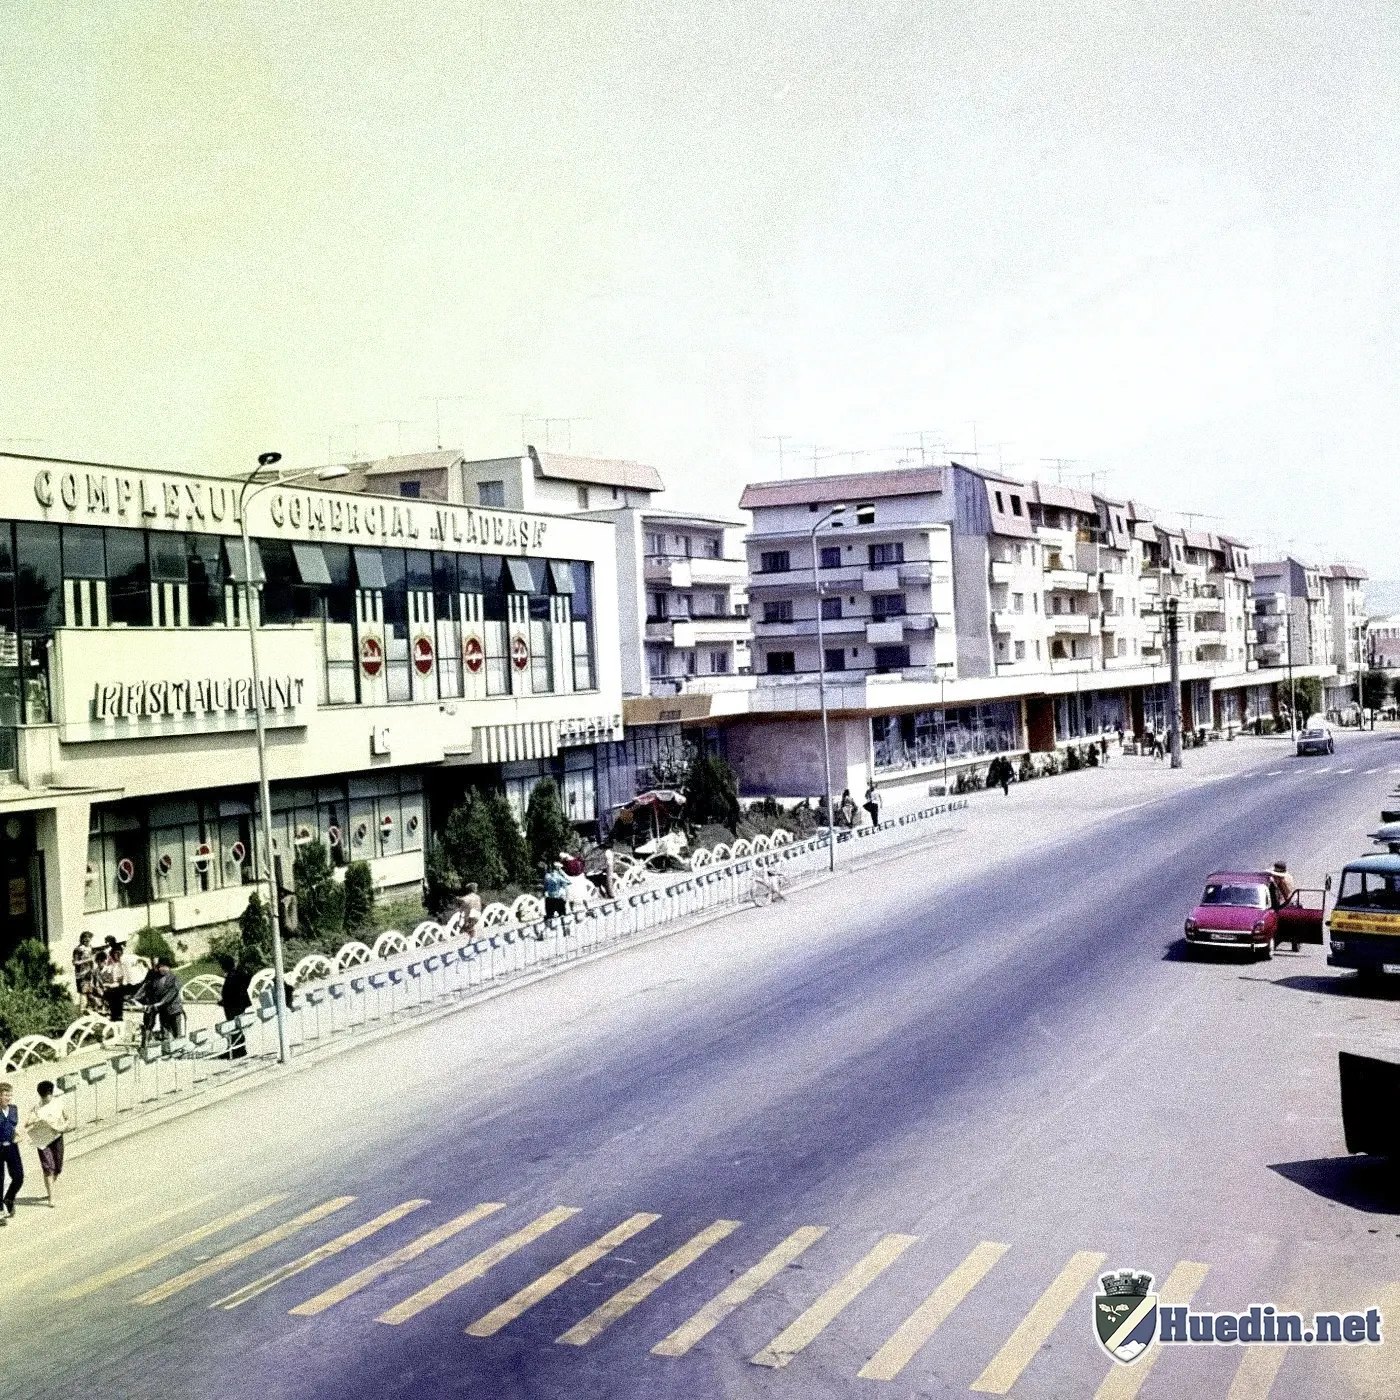
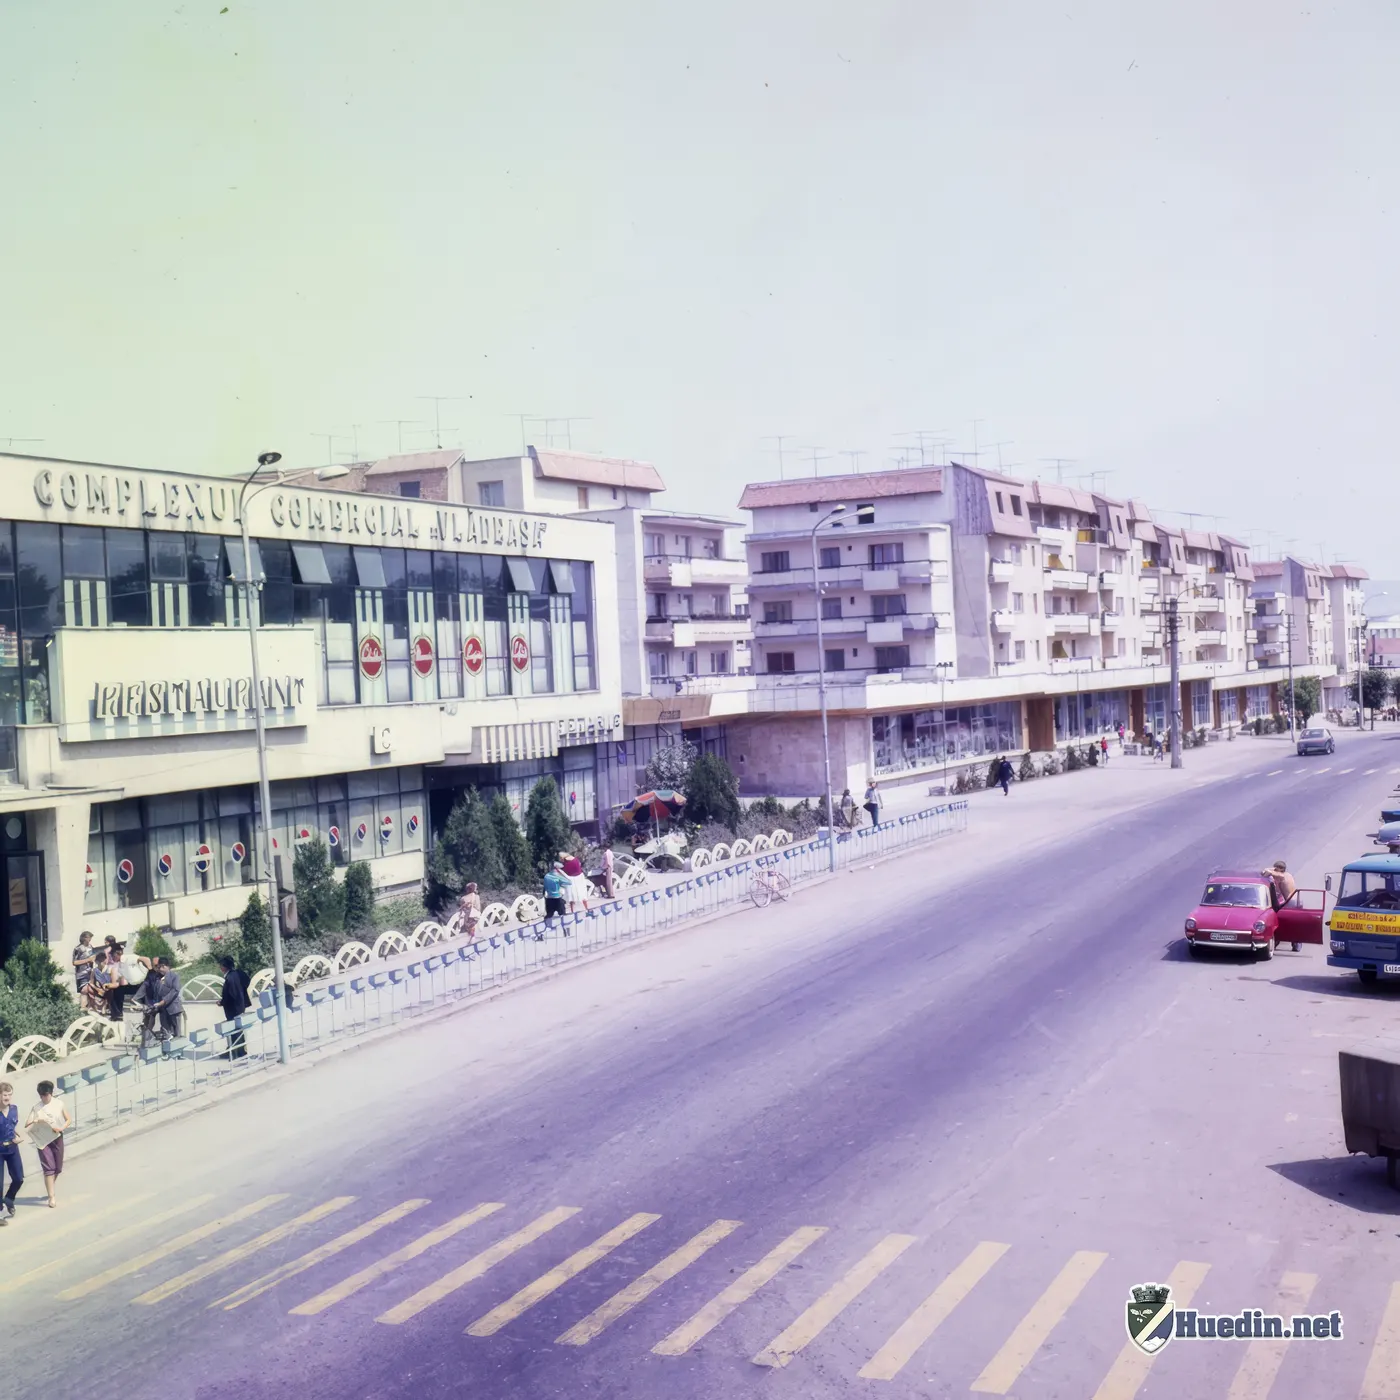
update

diff --git a/foto/huedin-1984-centrul-comercial-vladeasa.html b/foto/huedin-1984-centrul-comercial-vladeasa.html
@@ -3,15 +3,15 @@
 <head>
 <meta charset="utf-8">
 <meta name="viewport" content="width=device-width, initial-scale=1">
-<title>Huedin - 1984 (1984) · Huedin.net</title>
-<meta name="description" content="Huedin - 1984 (Zona centrală- Complexul Comercial Vlădeasa) · Huedin">
-<link rel="canonical" href="https://huedin.net/foto/huedin-1984-3.html">
+<title>Huedin - 1984 ( Centrul Comercial Vlădeasa ) (1984) · Huedin.net</title>
+<meta name="description" content="Huedin - 1984 ( Centrul Comercial Vlădeasa ) · Huedin">
+<link rel="canonical" href="https://huedin.net/foto/huedin-1984-centrul-comercial-vladeasa.html">
 <meta name="theme-color" content="#0a0a0c">
 <meta property="og:type" content="article">
 <meta property="og:site_name" content="Huedin.net">
-<meta property="og:title" content="Huedin - 1984 (1984) · Huedin.net">
-<meta property="og:description" content="Huedin - 1984 (Zona centrală- Complexul Comercial Vlădeasa) · Huedin">
-<meta property="og:url" content="https://huedin.net/foto/huedin-1984-3.html">
+<meta property="og:title" content="Huedin - 1984 ( Centrul Comercial Vlădeasa ) (1984) · Huedin.net">
+<meta property="og:description" content="Huedin - 1984 ( Centrul Comercial Vlădeasa ) · Huedin">
+<meta property="og:url" content="https://huedin.net/foto/huedin-1984-centrul-comercial-vladeasa.html">
 <meta property="og:image" content="https://huedin.net/assets/img/previews/p271.webp">
 <meta property="og:locale" content="ro_RO">
 <meta name="twitter:card" content="summary_large_image">
@@ -44,35 +44,35 @@
   <nav class="crumbs" aria-label="Fir de navigare">
     <a href="../index.html">Acasă</a><span aria-hidden="true">/</span>
     <a href="../arhiva.html">Arhivă foto</a><span aria-hidden="true">/</span>
-    <span aria-current="page">Huedin - 1984</span>
+    <span aria-current="page">Huedin - 1984 ( Centrul Comercial Vlădeasa )</span>
   </nav>
 </div>
 <section class="photo">
   <div class="wrap">
     <div class="photo__layout">
       <div>
-  <figure class="photo__figure" data-photo-figure data-full="../assets/img/portfolio/huedin-1984-1984.webp" data-title="Huedin - 1984" data-caption="1984 · Huedin" tabindex="0" role="button" aria-label="Mărește fotografia">
-    <img src="../assets/img/previews/p271.webp" width="1400" height="1400" alt="Huedin - 1984 (Zona centrală- Complexul Comercial Vlădeasa)" decoding="async">
-    <figcaption>Huedin - 1984 · Huedin — apăsați pentru vizualizare mărită.</figcaption>
+  <figure class="photo__figure" data-photo-figure data-full="../assets/img/portfolio/huedin-1984-centrul-comercial-vladeasa-1984.webp" data-title="Huedin - 1984 ( Centrul Comercial Vlădeasa )" data-caption="1984 · Huedin" tabindex="0" role="button" aria-label="Mărește fotografia">
+    <img src="../assets/img/previews/p271.webp" width="1400" height="1400" alt="Huedin - 1984 ( Centrul Comercial Vlădeasa )" decoding="async">
+    <figcaption>Huedin - 1984 ( Centrul Comercial Vlădeasa ) · Huedin — apăsați pentru vizualizare mărită.</figcaption>
   </figure>
   <div class="photo__actions">
-    <a class="btn btn--sm" href="../assets/img/portfolio/huedin-1984-1984.jpg" target="_blank" rel="noopener">Vezi originalul alb-negru</a>
-    <a class="btn btn--sm" href="../assets/img/portfolio/huedin-1984-1984.webp" target="_blank" rel="noopener">Rezoluție maximă</a>
-    <a class="btn btn--sm" href="../harta.html?foto=huedin-1984-3">Vezi pe hartă</a>
+    <a class="btn btn--sm" href="../assets/img/portfolio/huedin-1984-centrul-comercial-vladeasa-1984.jpg" target="_blank" rel="noopener">Vezi originalul alb-negru</a>
+    <a class="btn btn--sm" href="../assets/img/portfolio/huedin-1984-centrul-comercial-vladeasa-1984.webp" target="_blank" rel="noopener">Rezoluție maximă</a>
+    <a class="btn btn--sm" href="../harta.html?foto=huedin-1984-centrul-comercial-vladeasa">Vezi pe hartă</a>
   </div>
       </div>
       <div class="photo__side">
-    <h1>Huedin - 1984</h1>
+    <h1>Huedin - 1984 ( Centrul Comercial Vlădeasa )</h1>
     <ul class="photo__facts">
       <li><span class="k">An / perioadă</span><span class="v">1984</span></li>
       <li><span class="k">Perioadă</span><span class="v">1960–1990</span></li>
       <li><span class="k">Localitate</span><span class="v">Huedin</span></li>
-      <li><span class="k">Coordonate</span><span class="v">46.86460, 23.02652 (aproximative)</span></li>
+      <li><span class="k">Coordonate</span><span class="v">46.86472, 23.02593 (aproximative)</span></li>
       <li><span class="k">Cod arhivă</span><span class="v">p271</span></li>
     </ul>
     <p class="photo__note">Sursa coordonatelor: Poziționare manuală pe harta OpenStreetMap.</p>
     <p class="photo__note">Text original: „1984”.</p>
-    <p class="muted">Descriere: Huedin - 1984 (Zona centrală- Complexul Comercial Vlădeasa)</p>
+    <p class="muted">Descriere: Huedin - 1984 ( Centrul Comercial Vlădeasa )</p>
     <a class="btn btn--sm btn--ghost" href="../arhiva.html"><svg width="16" height="16" viewBox="0 0 24 24" fill="none" stroke="currentColor" stroke-width="1.7" stroke-linecap="round" stroke-linejoin="round" aria-hidden="true"><path d="M15 5l-7 7 7 7"/></svg> Înapoi la rezultate</a>
       </div>
     </div>

diff --git a/foto/huedin-1984-2.html b/foto/huedin-1984-2.html
@@ -97,10 +97,10 @@
 </article>
 <article class="card">
   <div class="card__media">
-    <img src="../assets/img/thumbs/p271.webp" width="600" height="600" alt="Huedin - 1984 (Zona centrală- Complexul Comercial Vlădeasa)" loading="lazy" decoding="async" data-lazy>
+    <img src="../assets/img/thumbs/p271.webp" width="600" height="600" alt="Huedin - 1984 ( Centrul Comercial Vlădeasa )" loading="lazy" decoding="async" data-lazy>
   </div>
   <div class="card__body">
-    <h3 class="card__title"><a href="../foto/huedin-1984-3.html">Huedin - 1984</a></h3>
+    <h3 class="card__title"><a href="../foto/huedin-1984-centrul-comercial-vladeasa.html">Huedin - 1984 ( Centrul Comercial Vlădeasa )</a></h3>
     <div class="card__meta">
       <span class="badge">1984</span>
       <span>Huedin</span>

diff --git a/foto/huedin-1984.html b/foto/huedin-1984.html
@@ -97,10 +97,10 @@
 </article>
 <article class="card">
   <div class="card__media">
-    <img src="../assets/img/thumbs/p271.webp" width="600" height="600" alt="Huedin - 1984 (Zona centrală- Complexul Comercial Vlădeasa)" loading="lazy" decoding="async" data-lazy>
+    <img src="../assets/img/thumbs/p271.webp" width="600" height="600" alt="Huedin - 1984 ( Centrul Comercial Vlădeasa )" loading="lazy" decoding="async" data-lazy>
   </div>
   <div class="card__body">
-    <h3 class="card__title"><a href="../foto/huedin-1984-3.html">Huedin - 1984</a></h3>
+    <h3 class="card__title"><a href="../foto/huedin-1984-centrul-comercial-vladeasa.html">Huedin - 1984 ( Centrul Comercial Vlădeasa )</a></h3>
     <div class="card__meta">
       <span class="badge">1984</span>
       <span>Huedin</span>

diff --git a/foto/pompieri-militari-1989.html b/foto/pompieri-militari-1989.html
@@ -78,7 +78,7 @@
     </div>
 <nav class="photo-nav" aria-label="Navigare între fotografii">
   <a data-prev href="cristian-topescu-si-helmuth-duckadam-pe-stadionul-din-huedin-1987.html"><span>← Anterioară</span>Cristian Țopescu și Helmuth Duckadam , pe stadionul din Huedin - 1987 (1987)</a>
-  <a data-next href="huedin-1984-3.html" style="text-align:right"><span>Următoare →</span>Huedin - 1984 (1984)</a>
+  <a data-next href="huedin-1984-centrul-comercial-vladeasa.html" style="text-align:right"><span>Următoare →</span>Huedin - 1984 ( Centrul Comercial Vlădeasa ) (1984)</a>
 </nav>
 <section class="related">
   <h2>Fotografii asociate</h2>
